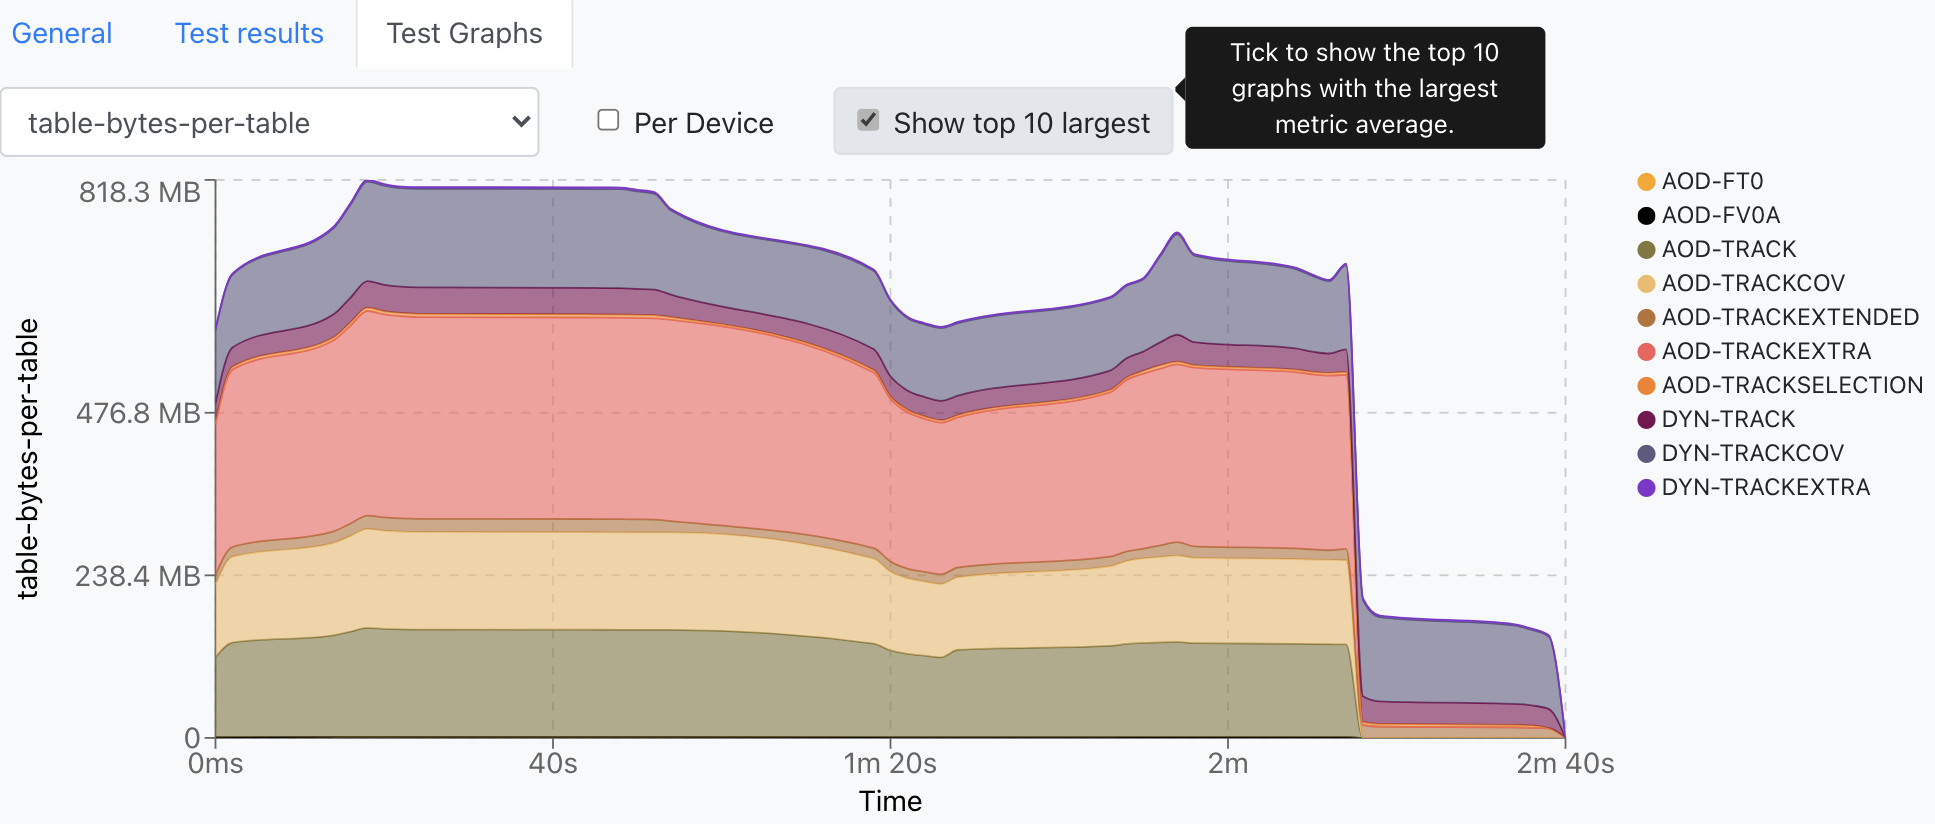
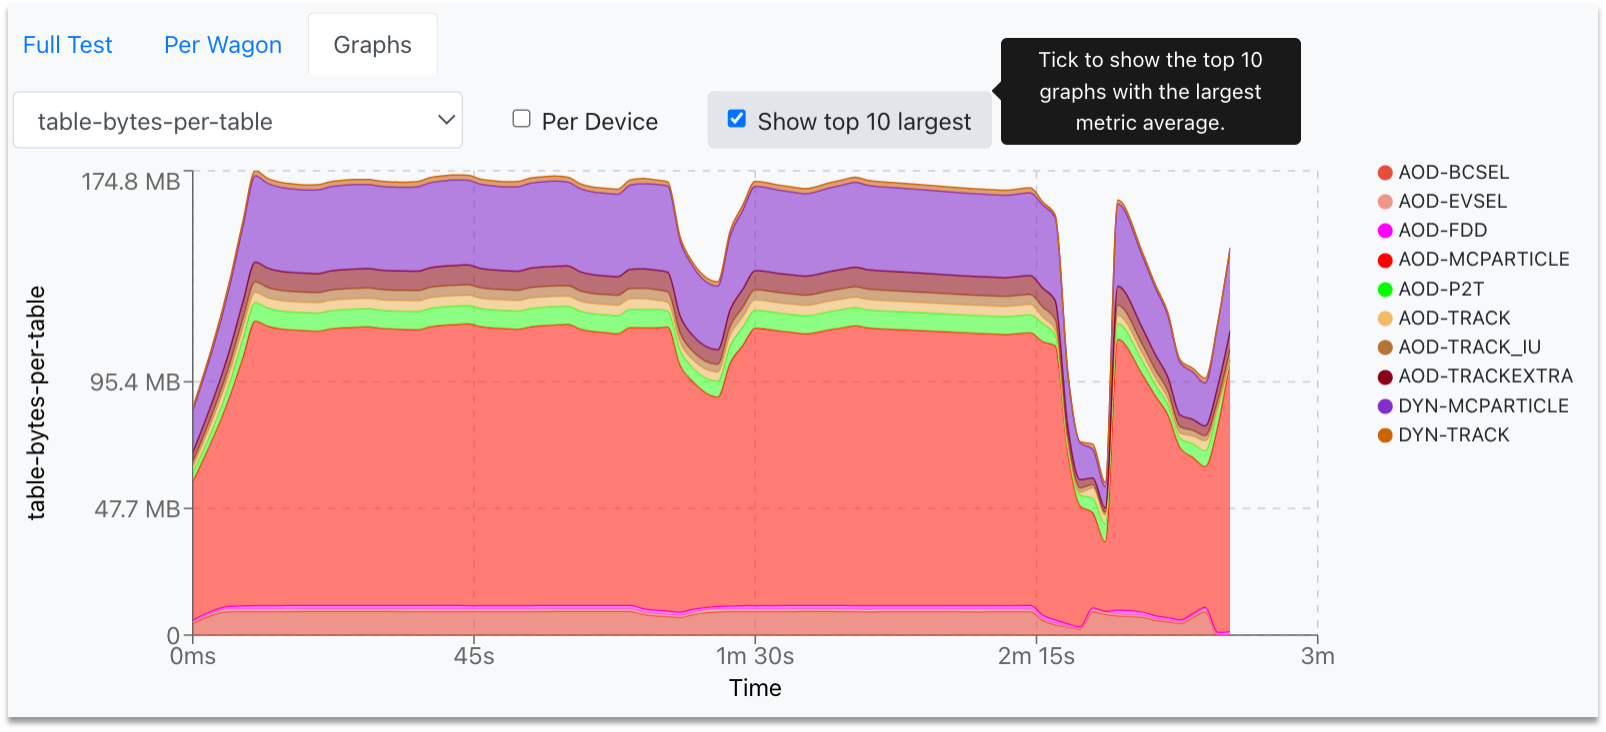
Update new Test tab information (#178)
* Add pictures for new Test tab

* Update Test tab for the user part

* Update Test tab for operator part

* Change Graphs tab name

* Minor fixes

diff --git a/docs/hyperloop/userdocumentation.md b/docs/hyperloop/userdocumentation.md
@@ -209,7 +209,12 @@ You can enable a wagon in the _My Analyses_ page. Inside of the _Analysis_ there
 * If the TEST_ID is known, it can be directly accessed using the url <a href="https://alimonitor.cern.ch/hyperloop/wagon-test/TEST_ID" target="_blank">https://alimonitor.cern.ch/hyperloop/wagon-test/TEST_ID</a>. 
 * Inside of a wagon test, the test configuration, results, graphs and statistics are displayed.
  
-* <a name="testgeneral"></a> The General tab displays the summary of the wagon test, direct links to dataset and participating wagon configuration, as well as direct links to the test output and the <a href="https://johnysswlab.com/speedscope-visualize-what-your-program-is-doing-and-where-it-is-spending-time/" target="_blank">speedscope</a> profiling of the task. The test output can be accessed by clicking on the buttons: `⏳`,`🌟`, `❗` or `💣`, or the link `(test output)`.
+* <a name="testgeneral"></a> The General tab displays the summary of the wagon test, direct links to dataset and participating wagon configuration, as well as direct links to the test output and the <a href="https://johnysswlab.com/speedscope-visualize-what-your-program-is-doing-and-where-it-is-spending-time/" target="_blank">speedscope</a> profiling of the task. The test output can be accessed by clicking on the buttons: `⏳`,`🌟`, `❗` or `💣`, or the link `(test output)`. Additionally, you can use the `(browse)` button to open the content of AnalysisResults.root in the web browser.
+
+ <div align="center">
+   <img src="../images/testOutputBrowse.png" width="80%">
+</div>
+ 
 * If a wagon test has failed, one can study the failure source by clicking the test output button. This will open in a new tab the list of files that can be used to track the possible issues that led to the failure.
  
 <div align="center">
@@ -224,19 +229,27 @@ You can enable a wagon in the _My Analyses_ page. Inside of the _Analysis_ there
   * Standard output
   * Test results tab
 
-* <a name="testresults"></a>The Test results tab shows the performance metrics per device (reader, workflows, writer), along with the expected resources. You can use the interactive graphs (per device) to zoom into the area of interest (click and drag) or zoom out (double-click).
-
+* <a name="testresults"></a>The _Test_ tab displays the performance metrics and interactive graphs. This is split in three subtabs: Full Test, Per Wagon and Graphs.
+ 
+* The _Full test_ tab shows the performance metrics for the full test and plots the proportional set size on a responsive graph that can be zoomed in (click and drag) and out (double click). The table on the right side of the graph summarizes the resources used, including information such as the PSS memory and private memory, as well as the expected resources.
+ 
 <div align="center">
    <img src="../images/wagonTestResults.png" width="70%">
 </div>
-
-* <a name="testgraphs"></a>The Test Graphs tab, plots the available metrics for the specific wagon test. You can choose the metric of interest from the dropdown, zoom into the graph (click and drag) and zoom out (double-click).
-
+ 
+* The _Per Wagon_ tab displays the metrics per device (reader, workflows and writer), offering the same type of responsive graph for the monitoring of the PSS memory. To access / hide the graphs, click on the icon next to the device names. Additionally, you can check the number of calls to CCDB per device in the right-most column.
+ 
 <div align="center">
-   <img src="../images/testGraphs.png" width="70%"> //already there
+   <img src="../images/testResultsPerWagon.png" width="70%">
 </div>
 
-* If you only want to see the top 10 graph with the highest average, check the Show top 10 largest box.
+* <a name="testgraphs"></a>The _Graphs_ tab plots the available metrics for the specific wagon test. You can choose the metric of interest from the upper-left dropdown, which will update the graph accordingly. To plot the metric data per device, select the `Per device` checkbox. If you want to plot only the highest ten graphs, that means the graphs with the highest average, then click the `Show top 10 largest` checkbox.
+ 
+<div align="center">
+   <img src="../images/testGraphs.png" width="70%">
+</div>
+ 
+* To zoom into the graph, click and drag over the area of interest, and release. Double click on the graph to zoom out. 
 
 * Whenever a wagon configuration is changed, if there are enabled wagons (including wagons that depend on it), then the test is automatically reset and a new test is launched. However, if the enabled wagon was already composed in a train, the train will run with the wagons and dataset configuration of the time at which the train was created.
 
@@ -269,46 +282,49 @@ When creating or enabling wagons, you can use a pull request instead of a packag
 
 ### <a name="train-run"></a>Train Run Result
 
-* The _General_ tab displays the summary of the train's progress, direct links to dataset and participating wagon configuration, as well as direct links to the test output and the <a href="https://johnysswlab.com/speedscope-visualize-what-your-program-is-doing-and-where-it-is-spending-time/" target="_blank">speedscope</a> profiling of the task.
+* The _General_ tab displays the summary of the train's progress, direct links to dataset and participating wagon configuration, as well as direct links to the test output and the <a href="https://johnysswlab.com/speedscope-visualize-what-your-program-is-doing-and-where-it-is-spending-time/" target="_blank">speedscope</a> profiling of the task. Additionally, you can use the `(browse)` button to open the content of AnalysisResults.root in the web browser.
 
 <div align="center">
    <img src="../images/trainResult.png" width="70%">
 </div>
 
-* <a name="traintestresults"></a>The _Test results_ tab shows the performance metrics per device (reader, workflows, writer), along with the expected resources. You can use the interactive graphs (per device) to zoom into the area of interest (click and drag) or zoom out (double-click).
+* <a name="traintestresults"></a>The _Test_ tab displays the performance metrics and interactive graphs. This is split in three subtabs: Full Test, Per Wagon and Graphs.
+* The _Full test_ tab shows the performance metrics for the full test and plots the proportional set size on a responsive graph that can be zoomed in (click and drag) and out (double click). The table on the right side of the graph summarizes the resources used, including information such as the PSS memory and private memory, as well as the expected resources.
 
 <div align="center">
-   <img src="../images/testResults.png" width="70%">
+   <img src="../images/testResults.png" width="60%">
 </div>
 
-* <a name="traintestgraphs"></a>In the _Test Graphs_ tab, the user can plot the available metrics for the specific _Train run_. By hovering over the graph, the corresponding values are displayed in a dynamic window, stating the value for each participating wagon.
+* The _Per Wagon_ tab displays the metrics per device (reader, workflows and writer), offering the same type of responsive graph for the monitoring of the PSS memory. To access / hide the graphs, click on the icon next to the device names. Additionally, you can check the number of calls to CCDB per device in the right-most column.
+ 
+<div align="center">
+   <img src="../images/trainTestResultsPerWagon.png" width="60%">
+</div>
+ 
+* <a name="traintestgraphs"></a>In the _Graphs_ tab, you can plot the available metrics for the specific _Train run_. By hovering over the graph, the corresponding values are displayed in a dynamic window, stating the value for each participating wagon.
 
   <div align="center">
-    <img src="../images/testGraphs.png" width="70%">
+    <img src="../images/trainTestGraphs.png" width="60%">
   </div>
 
-  * The metric can be selected from the upper-left dropdown, and the graph will change accordingly.
-  * The user can choose to plot the metric data per device, by checking the _Per Device_ near the dropdown.
+* You can choose the metric of interest from the upper-left dropdown, which will update the graph accordingly. To plot the metric data per device, select the `Per device` checkbox.
 
-  <div align="center">
-    <img src="../images/testGraphsPerDevice.png" width="70%">
-  </div>
+<div align="center">
+ <img src="../images/testGraphsPerDevice.png" width="60%">
+</div>
 
-  * In order to plot the highest ten graphs, that means the graphs with the highest average, the user can click the **Show top 10 largest** checkbox.
-  
-  <div align="center">
-    <img src="../images/graphLargest.png" width="70%">
-  </div>
-  
-  * The user can zoom into the graph by clicking and dragging the mouse along the area of interest. For zooming out, the user must double-click on the graph.
+* In order to plot the highest ten graphs, that means the graphs with the highest average, click the **Show top 10 largest** checkbox.
 
-  <div align="center">
-    <img src="../images/graphZoom.png" width="70%">
-  </div>
-  
-   <div align="center">
-    <img src="../images/graphZoom2.png" width="70%">
-  </div>
+<div align="center">
+  <img src="../images/graphLargest.png" width="60%">
+</div>
+
+* To zoom into the graph, click and drag over the area of interest, and release. Double click on the graph to zoom out.
+
+<div align="center">
+  <img src="../images/graphZoom.png" width="45%">
+  <img src="../images/graphZoom2.png" width="45%">
+</div>
 
 * <a name="trainsubmittedjobs"></a>In _Submitted jobs_, you can see the summary of the master jobs, along with links to the **IO Statistics** and **Stack trace**.
 

diff --git a/docs/hyperloop/operatordocumentation.md b/docs/hyperloop/operatordocumentation.md
@@ -80,46 +80,49 @@ title: Operator Documentation
 
 ### <a name="train-run"></a>Train Run Result
 
-* <a name="traingeneral"></a>The _General_ tab displays the summary of the train's progress, direct links to dataset and participating wagon configuration, as well as direct links to the test output and the speedscope profiling of the task.
+* The _General_ tab displays the summary of the train's progress, direct links to dataset and participating wagon configuration, as well as direct links to the test output and the <a href="https://johnysswlab.com/speedscope-visualize-what-your-program-is-doing-and-where-it-is-spending-time/" target="_blank">speedscope</a> profiling of the task. Additionally, you can use the `(browse)` button to open the content of AnalysisResults.root in the web browser.
 
 <div align="center">
    <img src="../images/trainResult.png" width="70%">
 </div>
 
-* <a name="traintestresults"></a>The _Test results_ tab shows the performance metrics per device (reader, workflows, writer), along with the expected resources. You can use the interactive graphs (per device) to zoom into the area of interest (click and drag) or zoom out (double-click).
+* <a name="traintestresults"></a>The _Test_ tab displays the performance metrics and interactive graphs. This is split in three subtabs: Full Test, Per Wagon and Graphs.
+* The _Full test_ tab shows the performance metrics for the full test and plots the proportional set size on a responsive graph that can be zoomed in (click and drag) and out (double click). The table on the right side of the graph summarizes the resources used, including information such as the PSS memory and private memory, as well as the expected resources.
 
 <div align="center">
-   <img src="../images/testResults.png" width="70%">
+   <img src="../images/testResults.png" width="60%">
 </div>
 
-* <a name="traintestgraphs"></a>In the _Test Graphs_ tab, you can plot the available metrics for the specific _Train run_. By hovering over the graph, the corresponding values are displayed in a dynamic window, stating the value for each participating wagon.
+* The _Per Wagon_ tab displays the metrics per device (reader, workflows and writer), offering the same type of responsive graph for the monitoring of the PSS memory. To access / hide the graphs, click on the icon next to the device names. Additionally, you can check the number of calls to CCDB per device in the right-most column.
+ 
+<div align="center">
+   <img src="../images/trainTestResultsPerWagon.png" width="60%">
+</div>
+ 
+* <a name="traintestgraphs"></a>In the _Graphs_ tab, the user can plot the available metrics for the specific _Train run_. By hovering over the graph, the corresponding values are displayed in a dynamic window, stating the value for each participating wagon.
 
   <div align="center">
-    <img src="../images/testGraphs.png" width="70%">
+    <img src="../images/trainTestGraphs.png" width="60%">
   </div>
 
-  * The metric can be selected from the upper-left dropdown, and the graph will change accordingly.
-  * To plot the metric data per device, select the _Per Device_ checkbox near the dropdown.
+* You can choose the metric of interest from the upper-left dropdown, which will update the graph accordingly. To plot the metric data per device, select the `Per device` checkbox.
 
-  <div align="center">
-    <img src="../images/testGraphsPerDevice.png" width="70%">
-  </div>
+<div align="center">
+ <img src="../images/testGraphsPerDevice.png" width="60%">
+</div>
 
-  * In order to plot the highest ten graphs, that means the graphs with the highest average, click the **Show top 10 largest** checkbox.
-  
-  <div align="center">
-    <img src="../images/graphLargest.png" width="70%">
-  </div>
-  
-  * You can zoom into the graph by clicking and dragging the mouse along the area of interest. For zooming out, double-click on the graph.
+* In order to plot the highest ten graphs, that means the graphs with the highest average, the user can click the **Show top 10 largest** checkbox.
 
-  <div align="center">
-    <img src="../images/graphZoom.png" width="70%">
-  </div>
-  
-   <div align="center">
-    <img src="../images/graphZoom2.png" width="70%">
-  </div>
+<div align="center">
+  <img src="../images/graphLargest.png" width="60%">
+</div>
+
+* To zoom into the graph, click and drag over the area of interest, and release. Double click on the graph to zoom out.
+
+<div align="center">
+  <img src="../images/graphZoom.png" width="45%">
+  <img src="../images/graphZoom2.png" width="45%">
+</div>
 
 * <a name="trainsubmittedjobs"></a>In _Submitted jobs_, you can see the summary of the master jobs, along with links to the **IO Statistics** and **Stack trace**.
 
